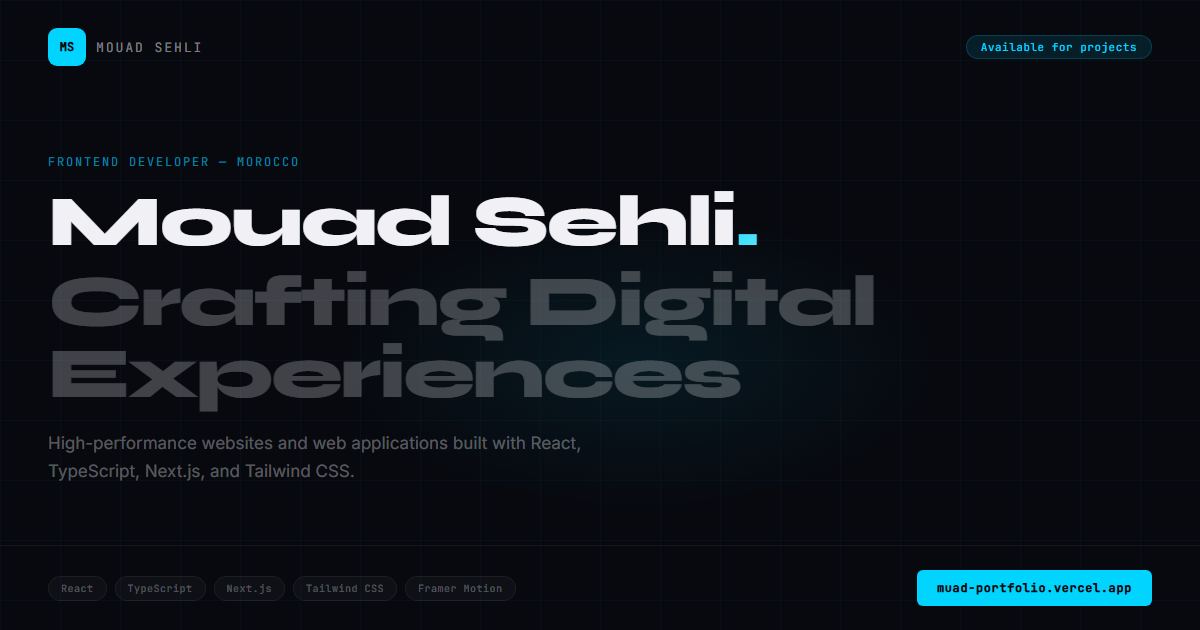
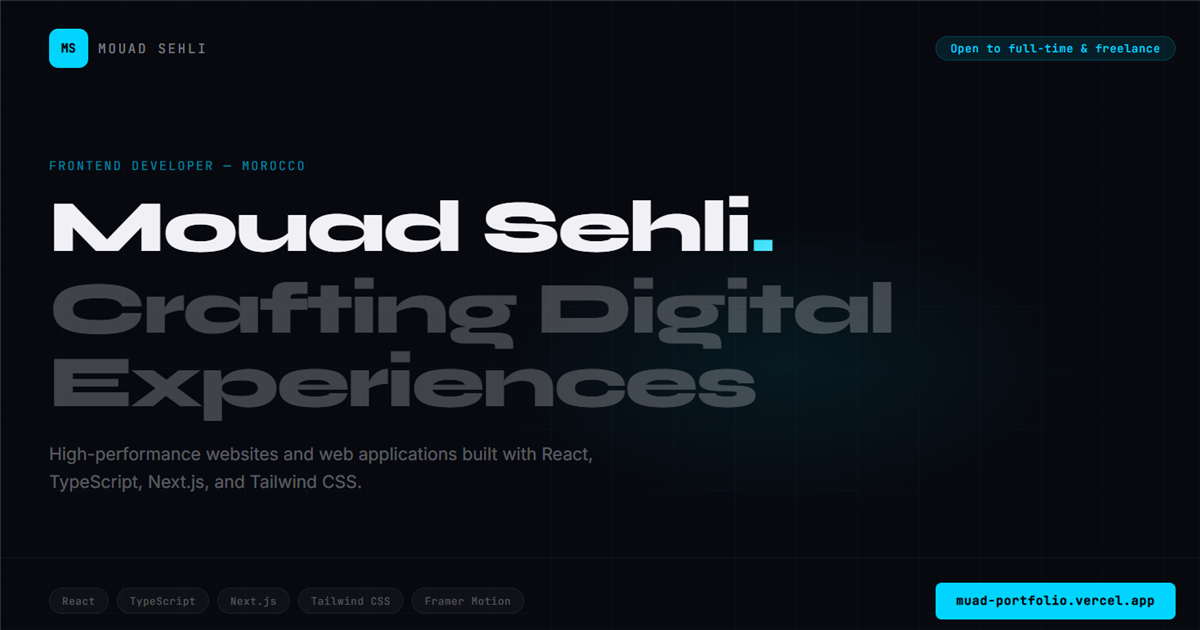
Protect product source, refresh OG image, trim dead weight
- Only show the GitHub "Source" link on the Portfolio card — the
  other projects are sold products, so their code stays private.
- Update the shareable OG image (what shows up when the portfolio
  link is posted on LinkedIn/etc.) to the new "open to work" message
  instead of the stale "Available for projects" text, regenerated
  at the correct 1200x630.
- Remove two stray unused SVG duplicates at the repo root (the real
  favicon.svg served from public/ was already correct and untouched).
- Drop unused gsap and react-router-dom dependencies, and two unused
  imports — dead weight that didn't match what's actually used.

Claude-Session: https://claude.ai/code/session_019YNNZg5KJ4rZxmVEbsFv3C

diff --git a/src/components/Projects.tsx b/src/components/Projects.tsx
@@ -55,7 +55,7 @@ function ProjectCard({ project, index }: { project: typeof projects[0]; index: n
               <ExternalLink size={12} />
               View Demo
             </a>
-            {project.github && (
+            {isPortfolio && project.github && (
               <a
                 href={project.github}
                 target="_blank"
@@ -125,7 +125,7 @@ function ProjectCard({ project, index }: { project: typeof projects[0]; index: n
               <ExternalLink size={12} />
               View Demo
             </a>
-            {project.github && (
+            {isPortfolio && project.github && (
               <a
                 href={project.github}
                 target="_blank"

diff --git a/public/og-image.html b/public/og-image.html
@@ -84,7 +84,7 @@
       <div class="logo-mark">MS</div>
       <span class="logo-text">MOUAD SEHLI</span>
     </div>
-    <span class="badge">Available for projects</span>
+    <span class="badge">Open to full-time & freelance</span>
   </div>
 
   <div class="body">

diff --git a/src/components/Skills.tsx b/src/components/Skills.tsx
@@ -1,6 +1,5 @@
 import { motion } from 'framer-motion';
 import { skills } from '../data/skills';
-import { projects } from '../data/projects';
 
 // Map skills to projects where they were used
 const skillProof: Record<string, string[]> = {

diff --git a/src/components/Navbar.tsx b/src/components/Navbar.tsx
@@ -1,4 +1,4 @@
-import { useState, useEffect, useRef } from 'react';
+import { useState, useEffect } from 'react';
 import { motion, AnimatePresence } from 'framer-motion';
 import { Menu, X } from 'lucide-react';
 
